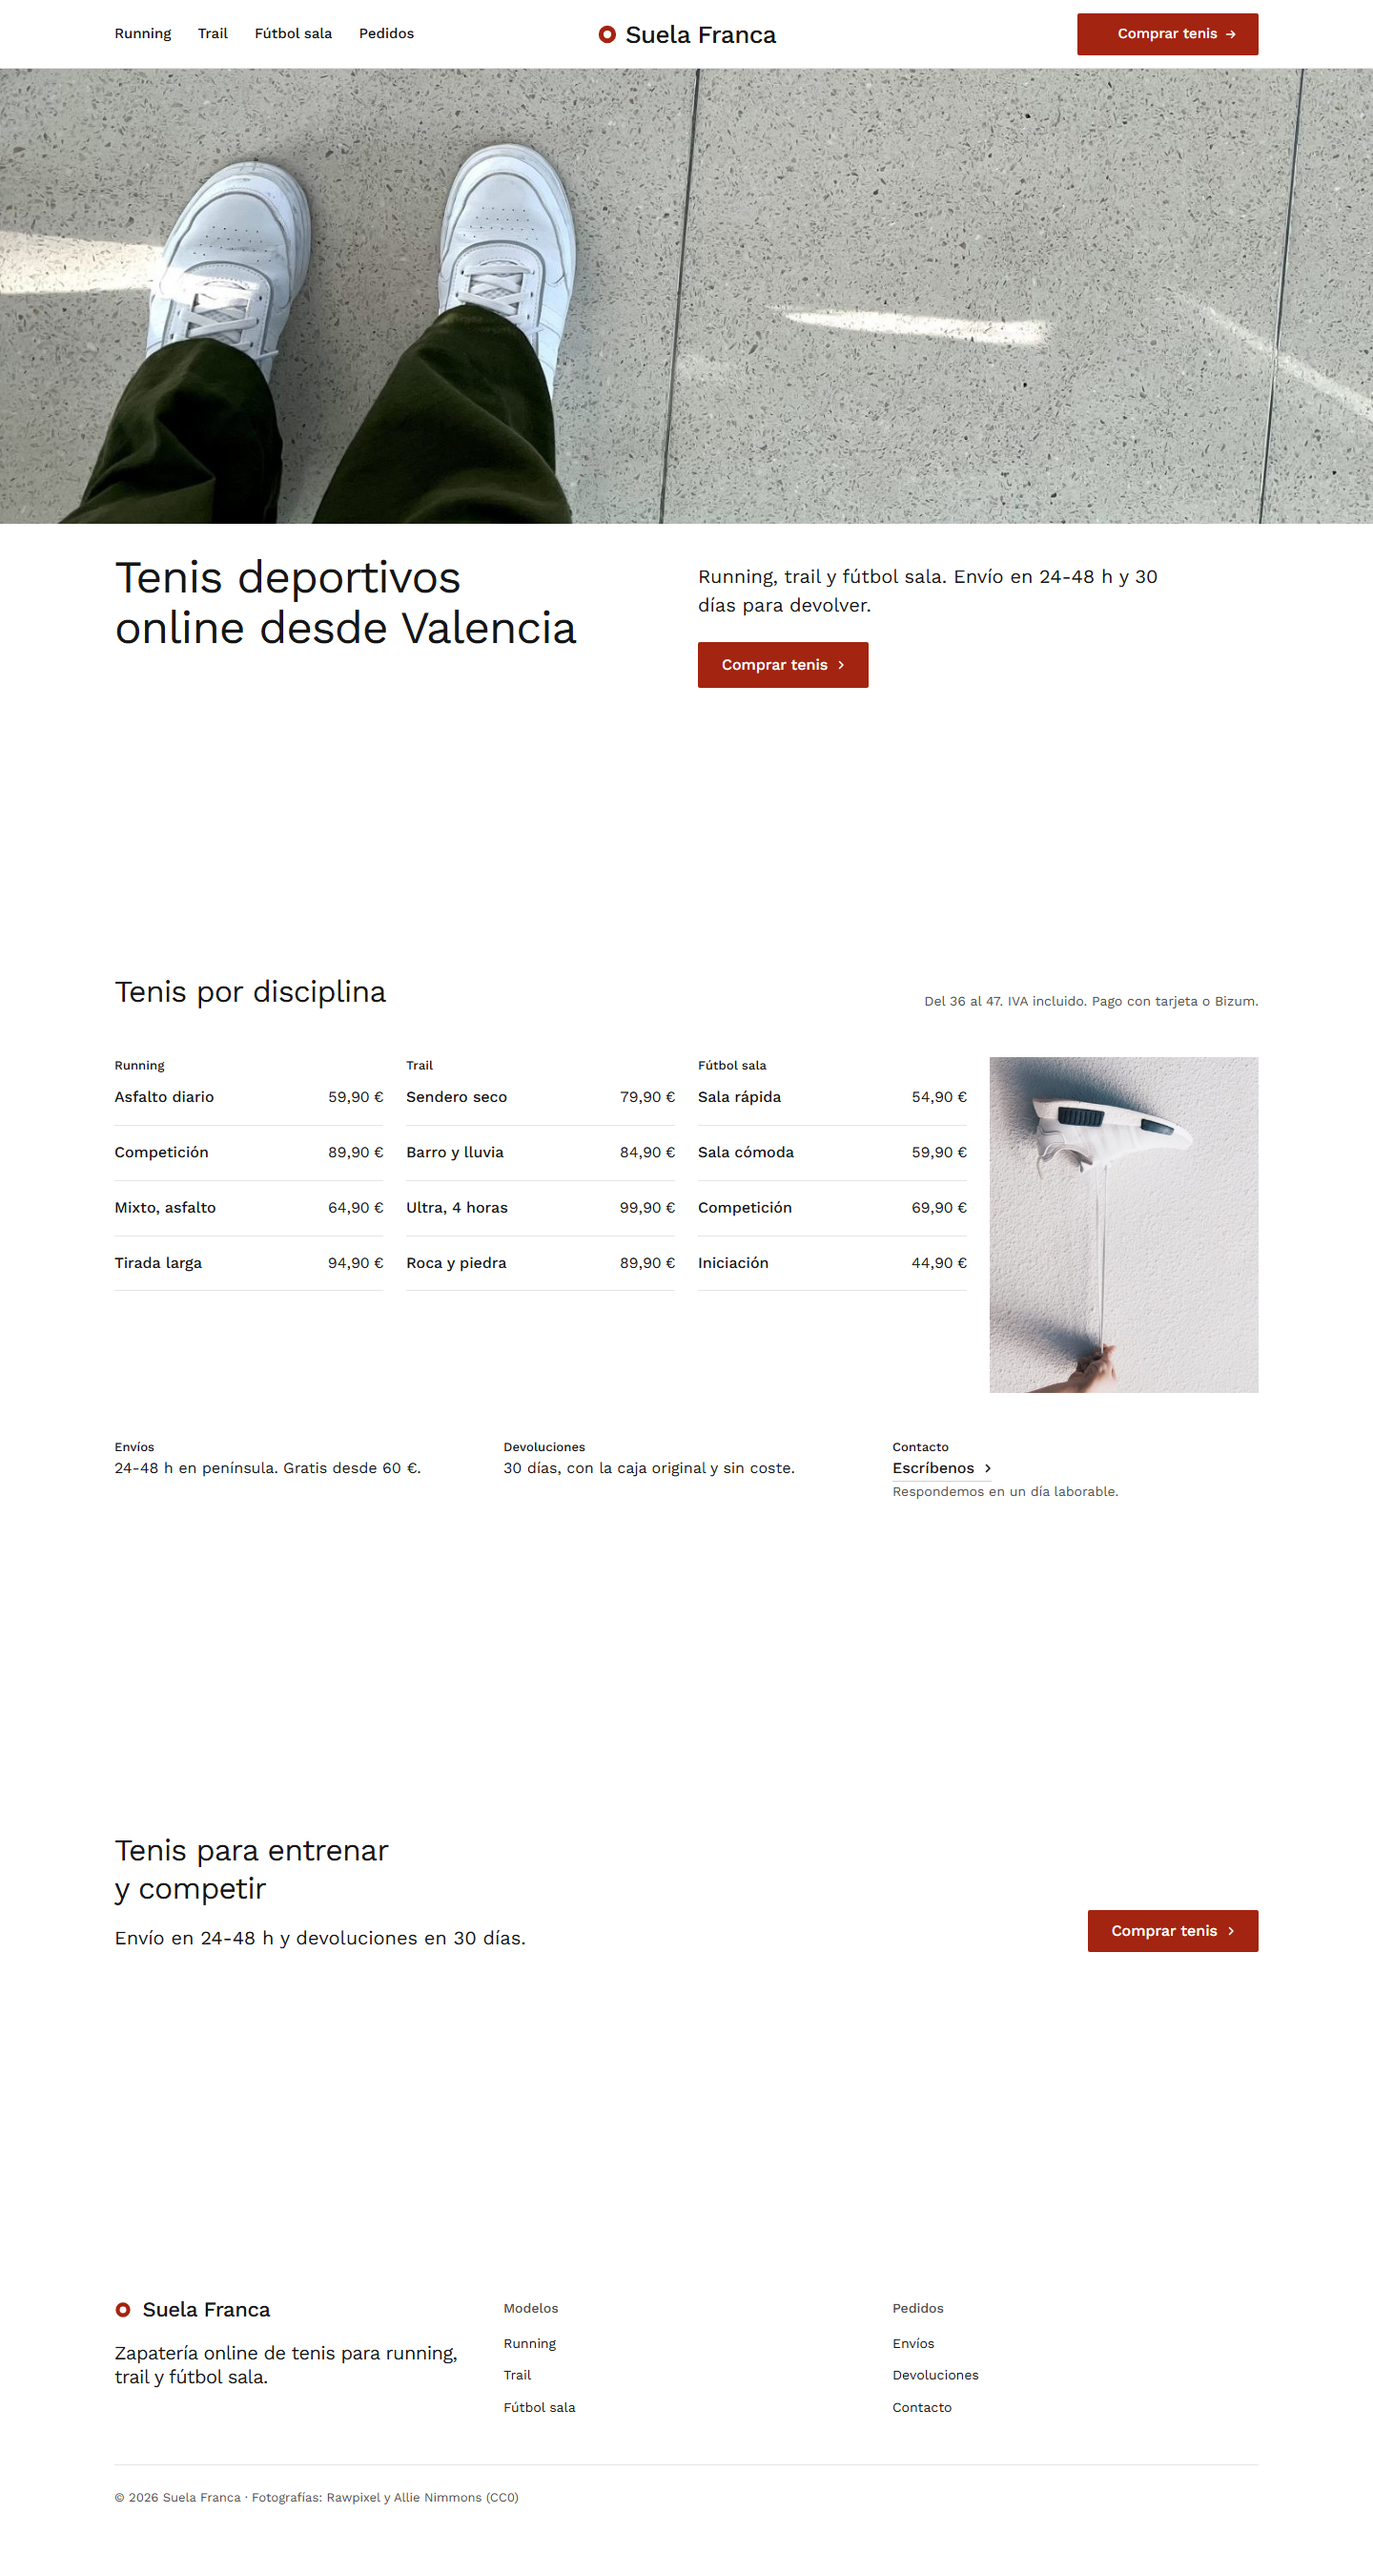
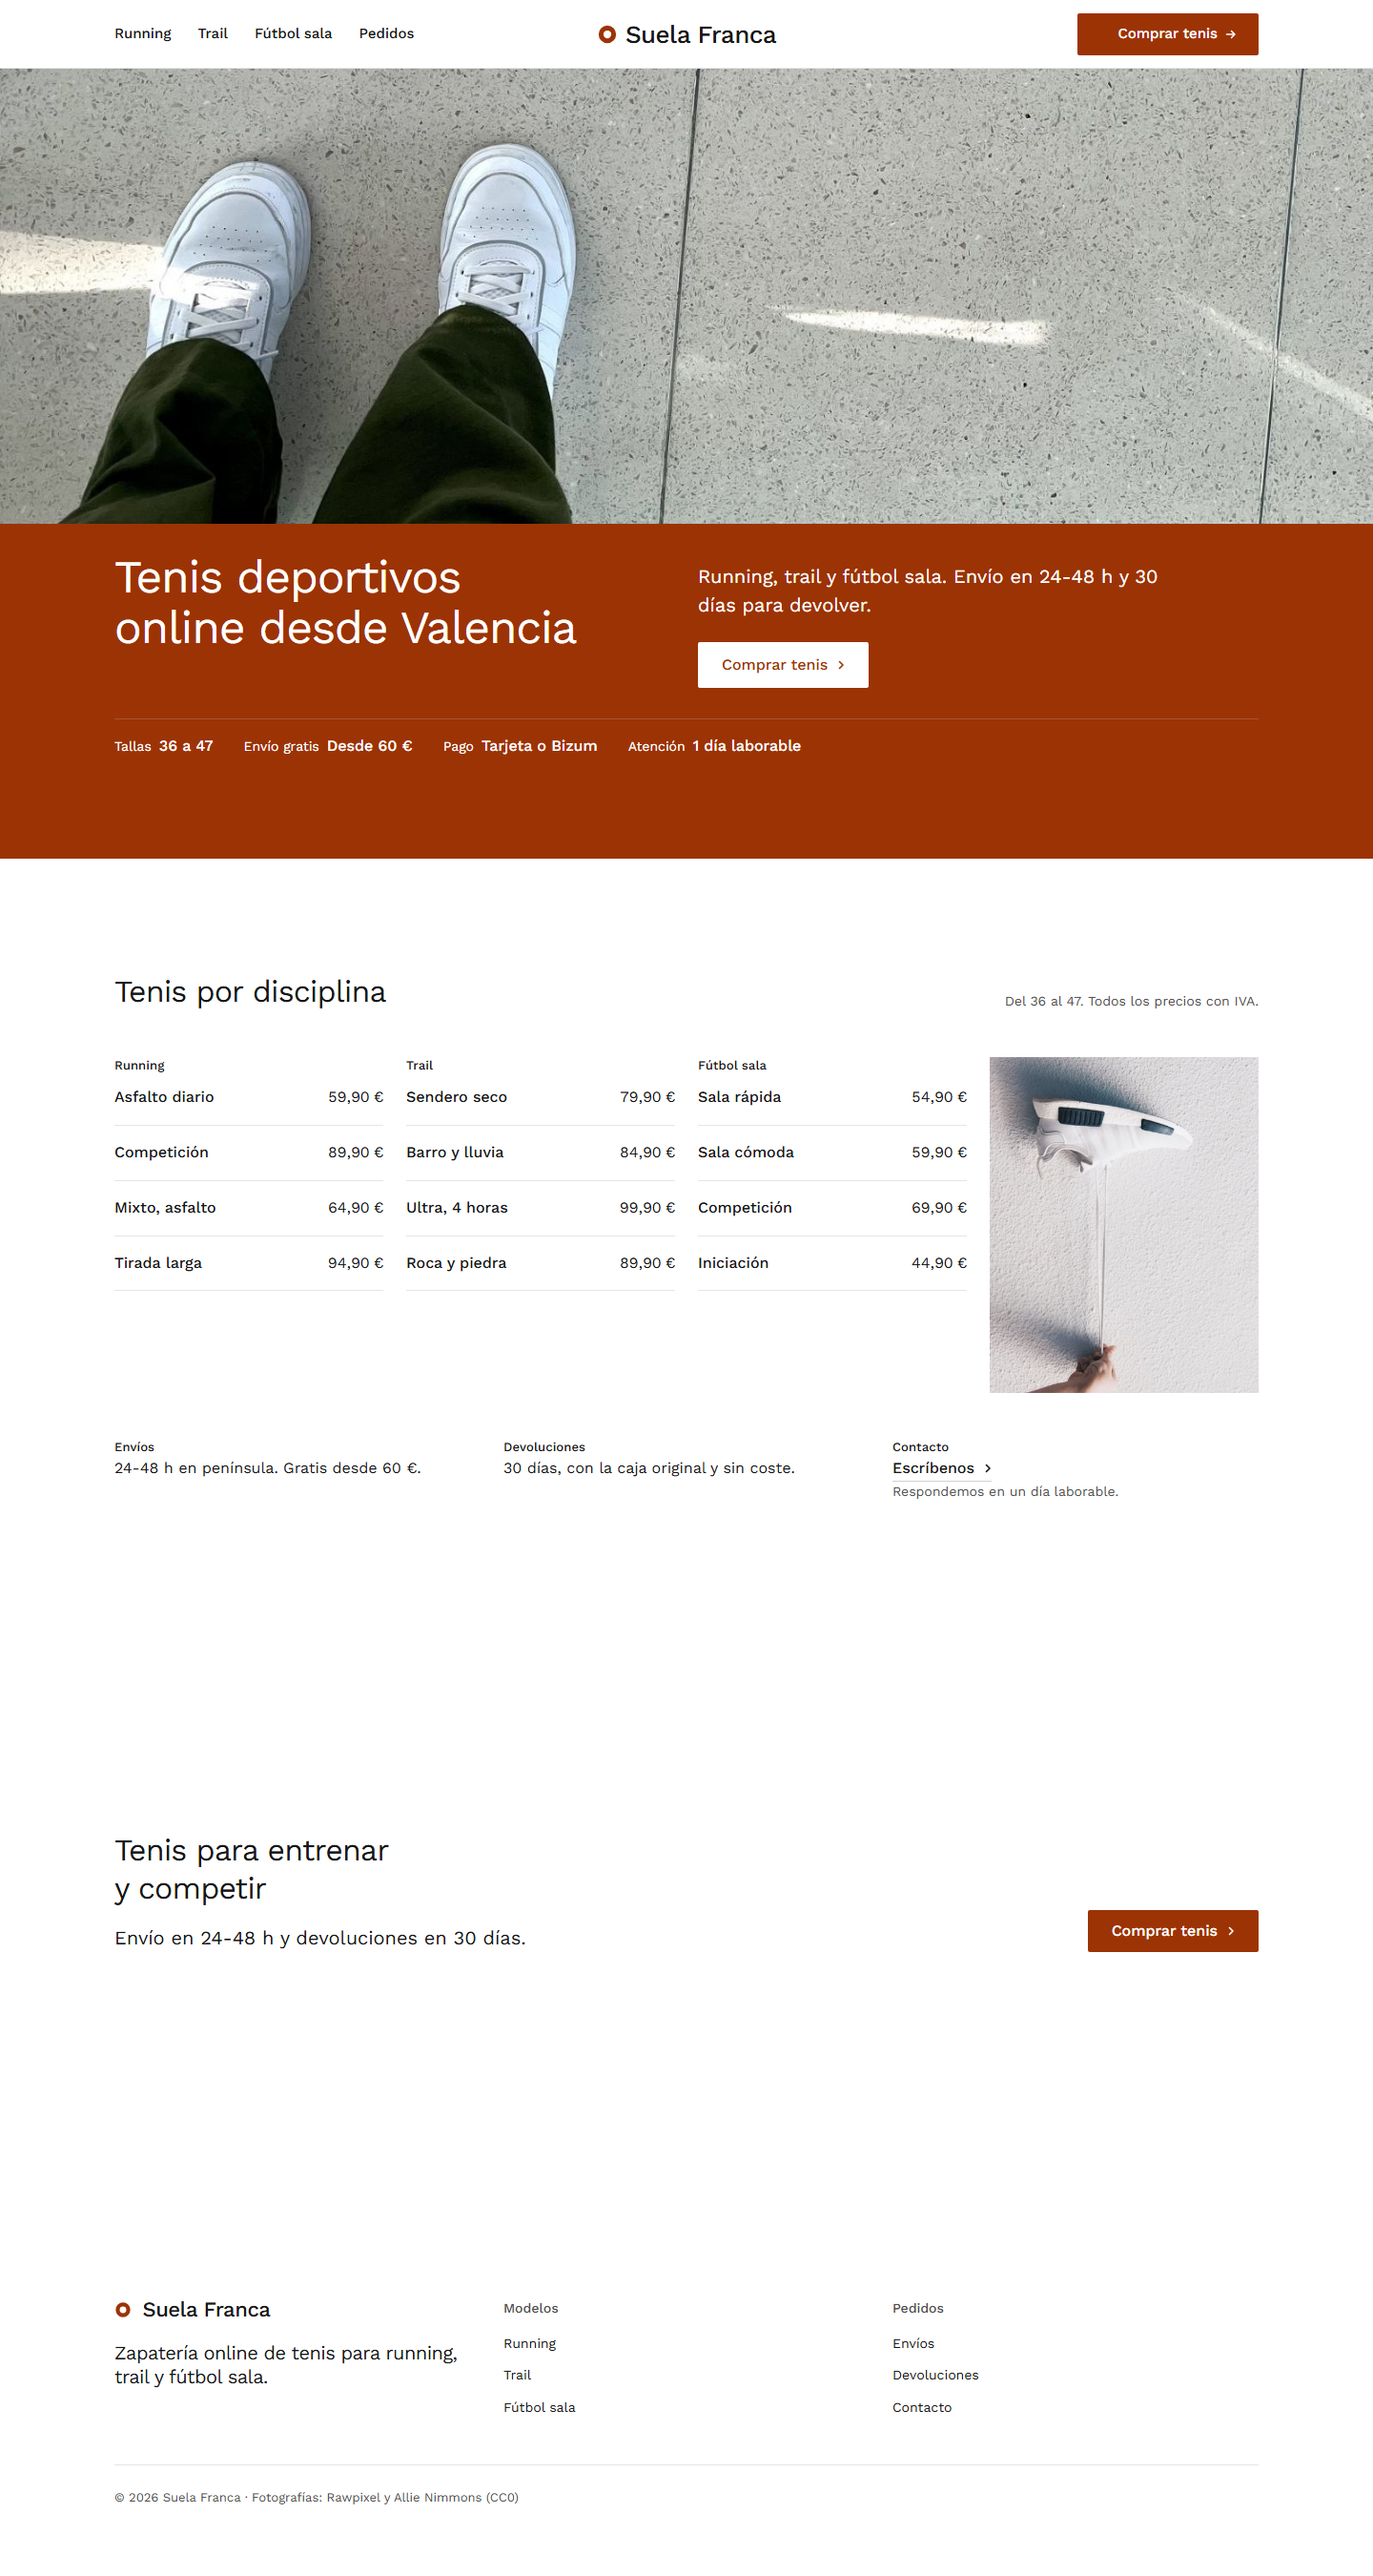
Mayor identidad

Changed region(s): [[0.0, 0.1867, 1.0, 0.3422]]

diff --git a/suela-franca/index.html b/suela-franca/index.html
@@ -38,9 +38,9 @@
 }
 :root {
   --p-bg: #ffffff; --p-surface: #f4f3ef; --p-ink: #161616; --p-muted: #4d4d4d;
-  --p-accent: #a32410; --p-accent-ink: #ffffff; --p-action: #a32410; --p-action-ink: #ffffff;
+  --p-accent: #9c3305; --p-accent-ink: #ffffff; --p-action: #9c3305; --p-action-ink: #ffffff;
   --p-inv-bg: #161616; --p-inv-surface: #232323; --p-inv-ink: #ffffff; --p-inv-muted: #9d9d9d;
-  --p-inv-accent: #a32410; --p-inv-accent-ink: #ffffff; --p-inv-action: #a32410; --p-inv-action-ink: #ffffff;
+  --p-inv-accent: #9c3305; --p-inv-accent-ink: #ffffff; --p-inv-action: #9c3305; --p-inv-action-ink: #ffffff;
   --font-display: "Work Sans", system-ui, sans-serif;
   --font-text: "Work Sans", system-ui, sans-serif;
   --display-weight: 400;
@@ -48,6 +48,14 @@
 }
 /* the hero's two crops: a 4:3 frame for the tablet and the phone, a 3:1 band at the desktop (see the <picture>) */
 .hero--place > picture.hero__bg > img { object-position: 50% 50%; }
+/* the brand band under the photograph: the facts docked to its foot, one line of pairs */
+:root[data-type="place"] section.hero--place .hero__facts {
+  display: flex; flex-wrap: wrap; justify-content: space-between; gap: var(--s-2) var(--s-5);
+  margin-top: var(--s-6); border-top: 1px solid var(--line); padding-top: var(--s-4);
+}
+:root[data-type="place"] section.hero--place .hero__facts > div { display: flex; align-items: baseline; gap: var(--s-2); grid-column: auto; }
+:root[data-type="place"] section.hero--place .hero__facts dt { color: var(--ink); }
+:root[data-type="place"] section.hero--place .hero__facts dd { color: var(--ink); }
 /* the nav's primary carries the dealt arrow: a blank of the same width keeps its label centred */
 @media (min-width: 640px) { .nav__actions .btn::before { content: ""; flex: none; width: 12px; height: 12px; margin-left: -2px; } }
 @media (max-width: 639px) { html[data-buttons="arrow"] .nav__actions .btn--primary::after { content: none; } }
@@ -118,7 +126,7 @@
 </header>
 
 <main id="top">
-  <section class="hero hero--place" aria-labelledby="hero-h">
+  <section class="hero hero--place ground-brand" aria-labelledby="hero-h">
     <picture class="hero__bg">
       <source media="(max-width: 639px)" srcset="assets/img/hero-tenis-390.jpg">
       <source media="(max-width: 1023px)" srcset="assets/img/hero-tenis-tablet.jpg">
@@ -132,6 +140,12 @@
           <a class="btn btn--primary" href="#modelos">Comprar tenis<svg class="m-arrow" viewBox="0 0 12 12" aria-hidden="true"><path class="m-arrow__stem" d="M1 6h8"/><path class="m-arrow__head" d="M4.5 2.5 8 6l-3.5 3.5"/></svg></a>
         </div>
       </div>
+      <dl class="hero__facts">
+        <div><dt>Tallas</dt><dd>36 a 47</dd></div>
+        <div><dt>Envío gratis</dt><dd>Desde 60 €</dd></div>
+        <div><dt>Pago</dt><dd>Tarjeta o Bizum</dd></div>
+        <div><dt>Atención</dt><dd>1 día laborable</dd></div>
+      </dl>
     </div></div>
   </section>
 
@@ -139,7 +153,7 @@
     <div class="wrap">
       <div class="head-row">
         <div><h2 id="modelos-h">Tenis por disciplina</h2></div>
-        <p class="t-small muted">Del 36 al 47. IVA incluido. Pago con tarjeta o Bizum.</p>
+        <p class="t-small muted">Del 36 al 47. Todos los precios con IVA.</p>
       </div>
       <div class="grid grid--top offer-grid">
         <div class="span-3 offer-group" id="running">
